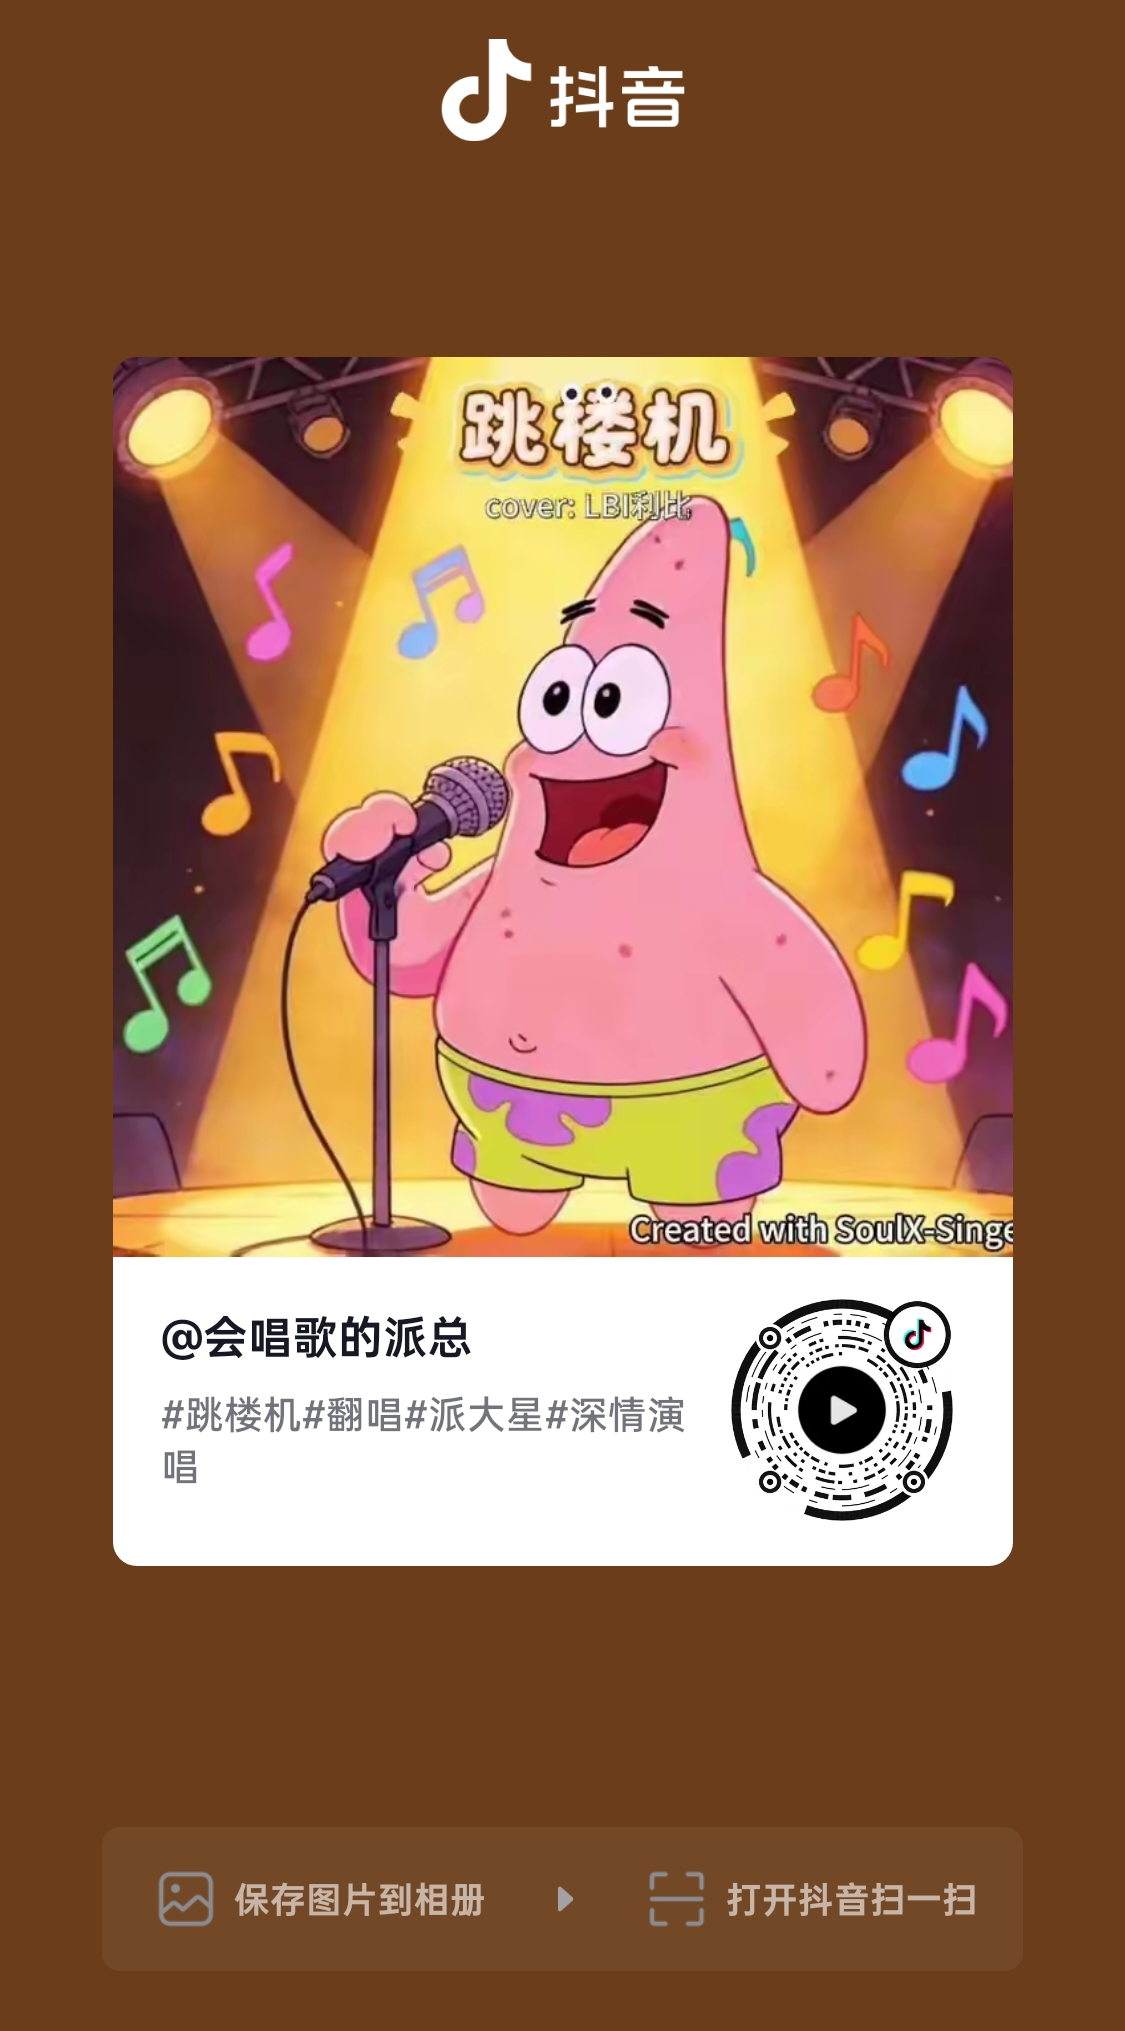
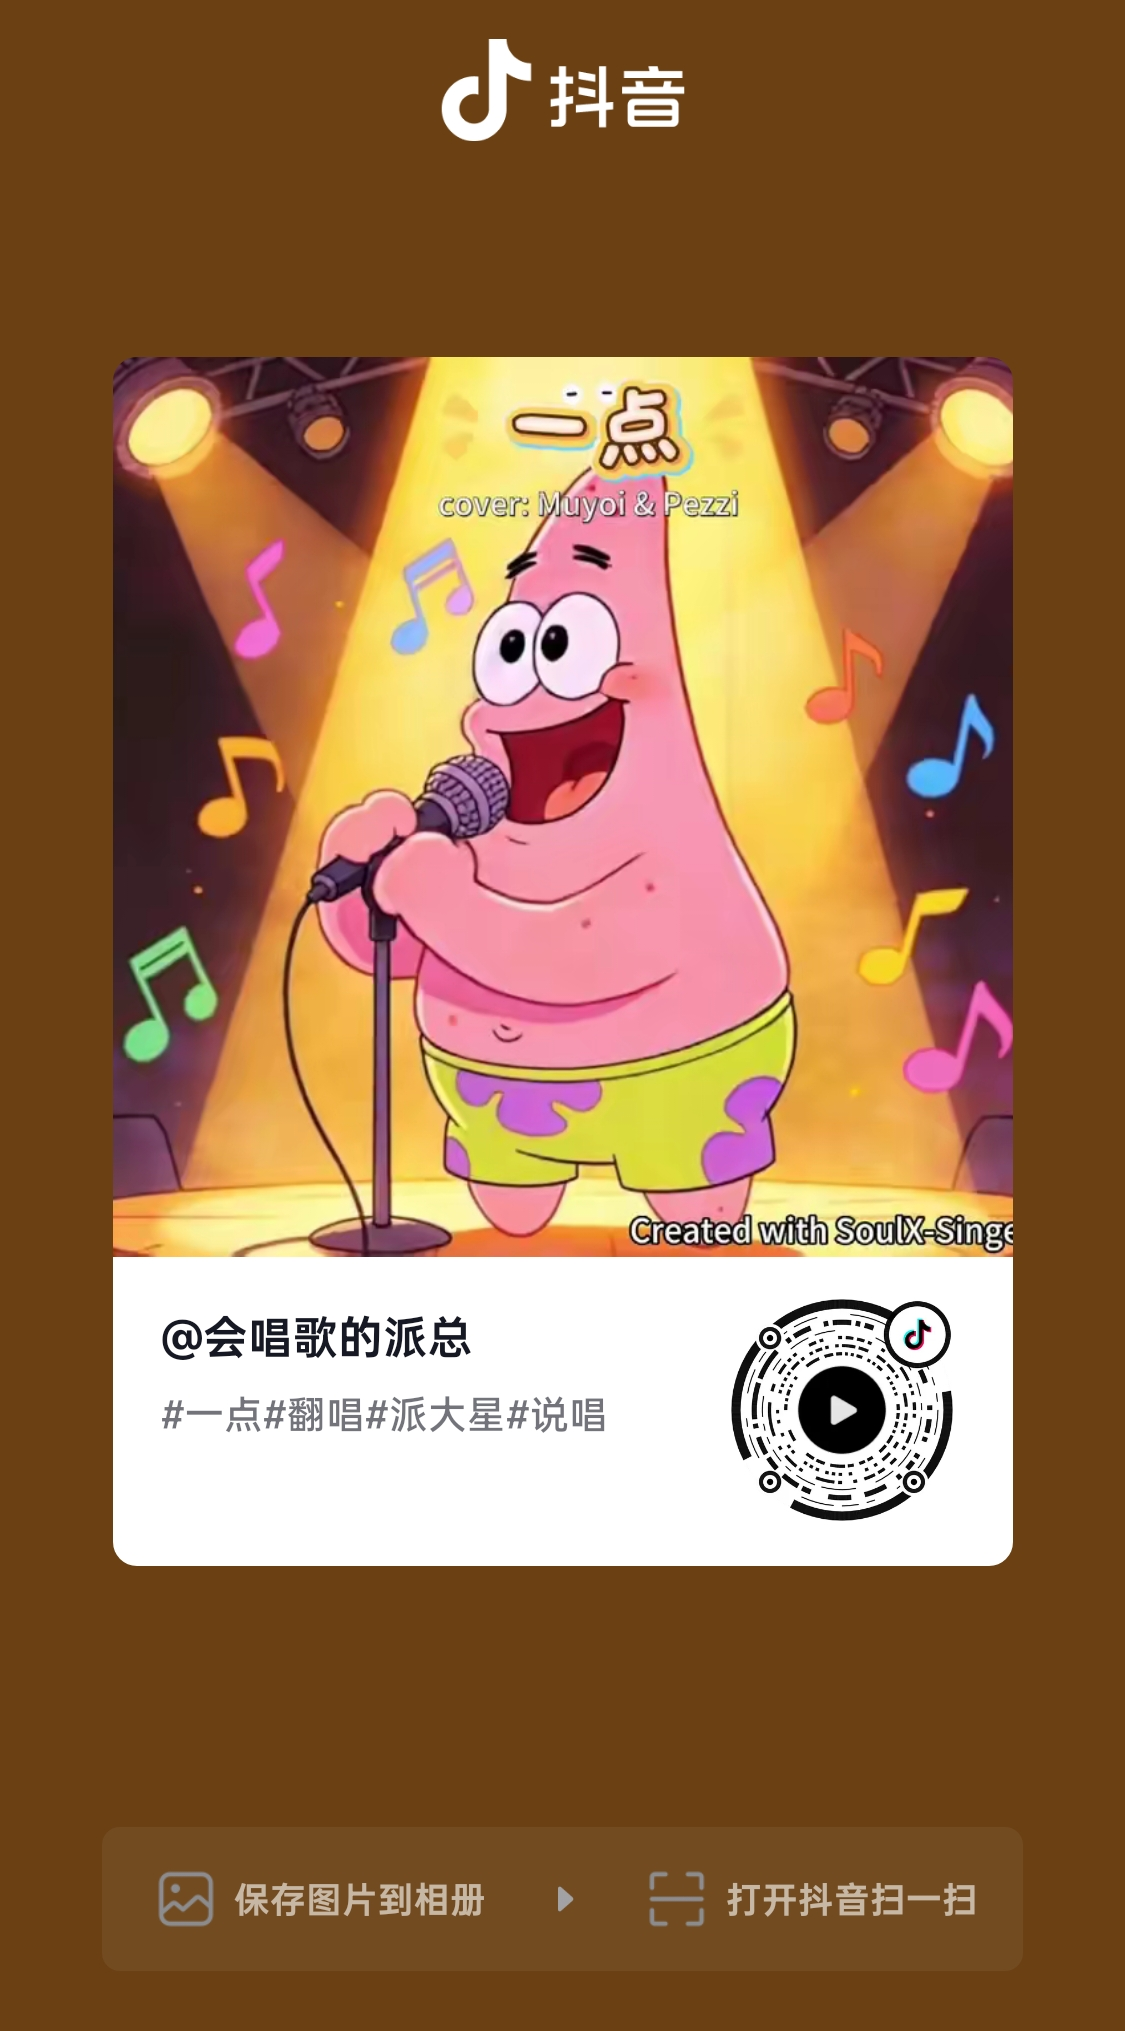
correct some erros.

diff --git a/soulx-singer/index.html b/soulx-singer/index.html
@@ -28,10 +28,6 @@
     </div>
     
     <p class="subtitle">SoulX-Singer: Towards High-Quality Zero-Shot Singing Voice Synthesis</p>
-    
-    <div class="meta">
-      <span class="author-block">Soul AI Lab</span>
-    </div>
 
     <div class="meta" style="margin-top: 10px; text-align: center;">
       <div style="font-size: 0.98rem; line-height: 1.7; color: #555; max-width: 1100px; margin: 0 auto;">
@@ -75,7 +71,7 @@
       <a href="https://github.com/Soul-AILab/SoulX-Singer" target="_blank" rel="noopener" class="chip">
         <span class="icon">🐙</span> Code
       </a>
-      <a href="https://huggingface.co/collections/Soul-AILab/soulx-singer" target="_blank" rel="noopener" class="chip">
+      <a href="https://huggingface.co/Soul-AILab/SoulX-Singer" target="_blank" rel="noopener" class="chip">
         <span class="icon">🤗</span> HuggingFace
       </a>
      </div>
@@ -744,10 +740,10 @@
           </div>
         </a>
 
-         <a href="https://v.douyin.com/jTEC_nuiBtU/" target="_blank" class="showcase-card">
-          <img src="static/images/realsinger2.jpg" alt="跳楼机 (Cover)" class="showcase-img" />
+         <a href="https://v.douyin.com/rAgiIKUb9Q8/" target="_blank" class="showcase-card">
+          <img src="static/images/realsinger2.jpg" alt="一点 (Cover)" class="showcase-img" />
           <div class="showcase-info">
-            <span class="showcase-title">跳楼机 (Cover)</span>
+            <span class="showcase-title">一点 (Cover)</span>
             <div style="font-size: 0.9rem; color: #555; margin-bottom: 4px;">会唱歌的派总</div>
             <span class="showcase-platform">Douyin ↗</span>
           </div>
